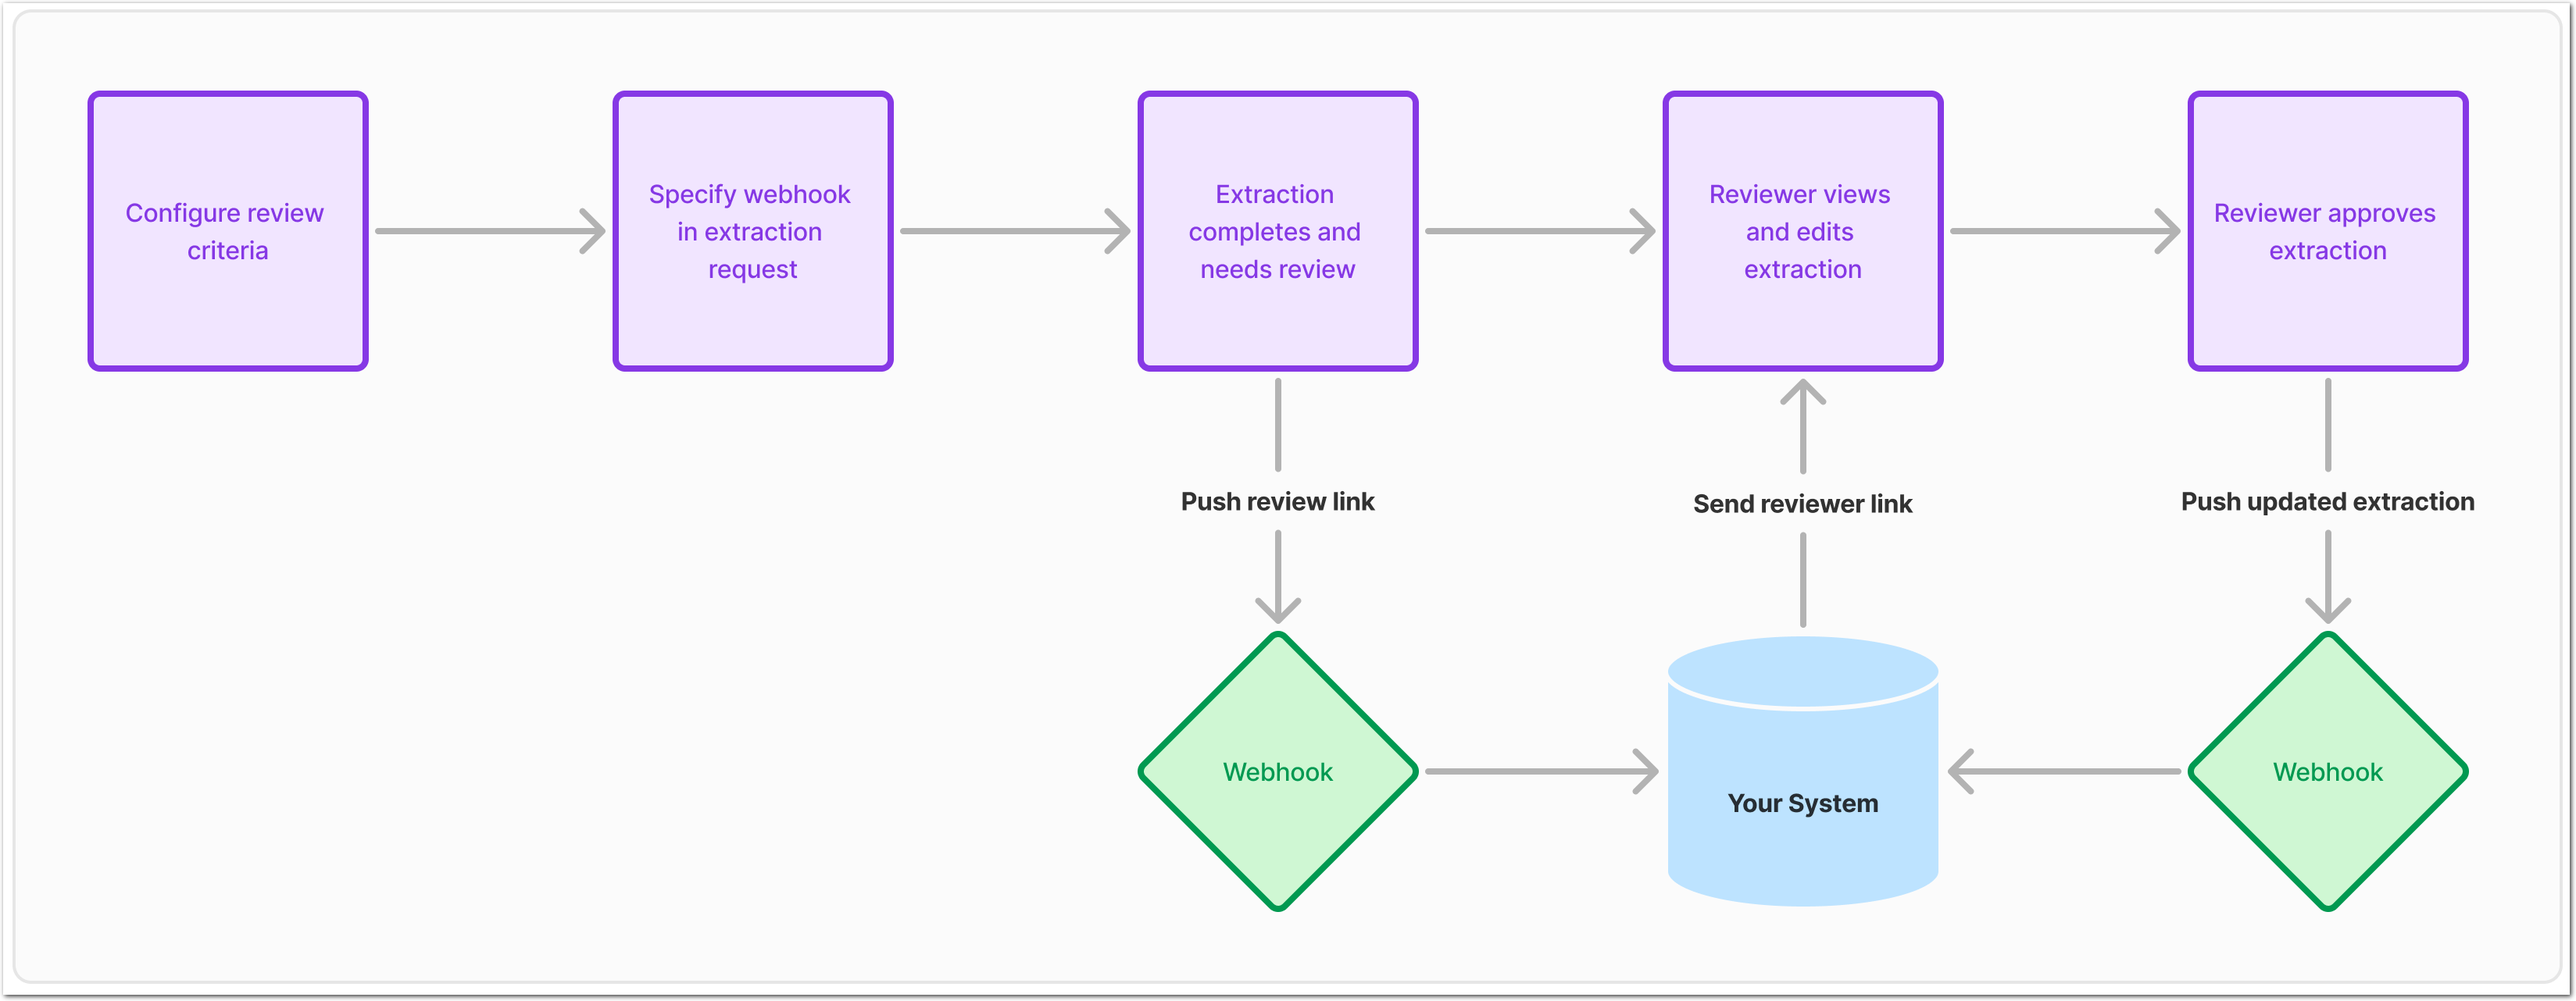
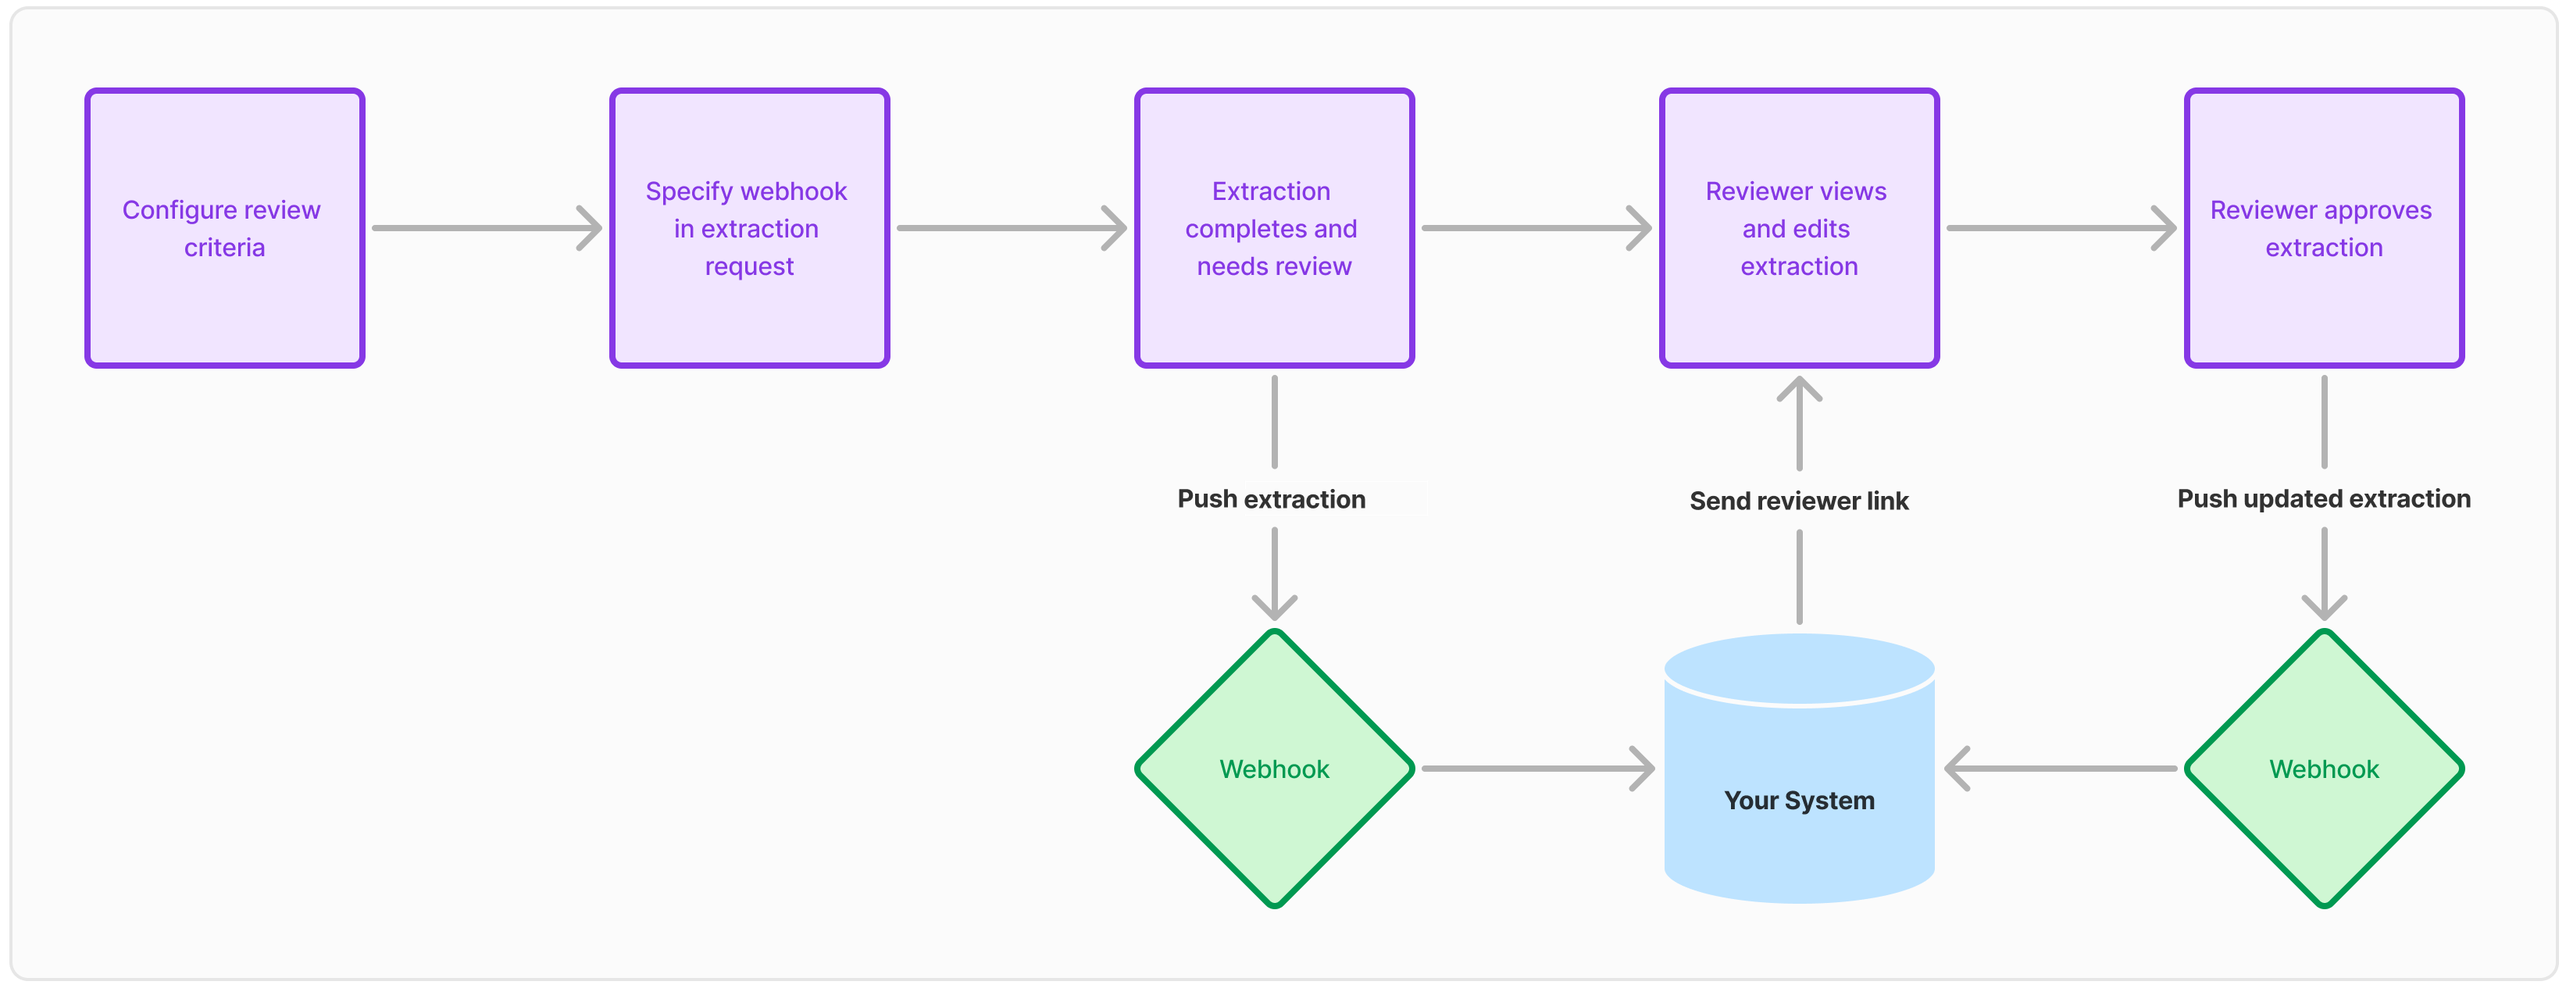
Update openapi_extraction.yml
Update openapi_extraction.yml

magic links

Update openapi_extraction.yml

Update openapi_extraction.yml

Update openapi_extraction.yml

Update openapi_extraction.yml

Update openapi_extraction.yml

Update openapi_extraction.yml

Update openapi_extraction.yml

Update openapi_extraction.yml

Update openapi_extraction.yml

imgs

misc

Update openapi_extraction.yml

Update openapi_extraction.yml

Update openapi_extraction.yml

Update openapi_extraction.yml

Update openapi_extraction.yml

Update openapi_extraction.yml

diff --git a/readme-sync/v0/monitor-and-qa/draft-human-review-implementation.md b/readme-sync/v0/monitor-and-qa/draft-human-review-implementation.md
@@ -1,0 +1,23 @@
+---
+title: "Human review configuration"
+hidden: true
+---
+
+
+
+When you extract document data at scale using Sensible, automating [human-in-the-loop review](https://www.sensible.so/blog/human-review) can become essential to your quality-control process. As the following figure shows, it guides you through automating flagging document extractions for review, notifying reviewers of extractions that need review, and setting up webhooks to ingest corrected extractions into your system once reviewers approve them.
+
+*If extractions contain errors, for example as the result of hard-to-read handwriting, you can flag extractions for manual correction by a human reviewer. Flag extractions automatically at scale in production by configuring flagging rules based on [validations](doc:validate-extractions) and [extraction coverage](doc:coverage) and by using webhooks to assign reviews.*
+
+## Review lifecycle
+
+The following diagram shows how to integrate human-in-the-loop review into your application: 
+
+![Click to enlarge](https://raw.githubusercontent.com/sensible-hq/sensible-docs/main/readme-sync/assets/v0/images/final/human_review_5.png)
+
+1. **Enable review and configure review triggers**: Enable and configure extraction quality validation for a document type, for example, tax documents or pay stubs. Any extraction in the document type that doesn’t meet your quality validations triggers a human review.
+2. **Specify a webhook for each document extraction:** When extracting data from a document using Sensible’s API or SDK, specify a webhook destination URL that receives updates to the extraction’s review status. 
+3. **Notify a reviewer**: When the webhook indicates that a completed extraction needs review and correction, notify a reviewer and send them a link to the review interface that they can following without having to log into Sensible.
+4. **Ingest corrected extractions**: When the webhook indicates that a reviewer approved an extraction, ingest the document data into your system.
+
+For a detailed tutorial on implementing these steps, see [How to automate human-in-the-loop review for document processing](https://www.sensible.so/blog/human-review-document-processing).

diff --git a/readme-sync/v0/monitor-and-qa/draft-human-review.md b/readme-sync/v0/monitor-and-qa/draft-human-review.md
@@ -3,7 +3,7 @@ title: "Human review"
 hidden: true
 ---
 
-As a reviewer, you can use the Sensible app's **Human review** tab to manually correct extracted document data that's been flagged TODO LINK for review, then approve or reject the extraction. Once you approve or reject, you can't change the status again.
+As a reviewer, you can use the Sensible app's **Human review** tab to manually correct extracted document data that's been flagged TODO LINK for review, then approve or reject the extraction. Once you approve or reject, you can't change the status again. 
 
 Click the **Human review** tab to display the document types that contain extractions flagged for review:
 
